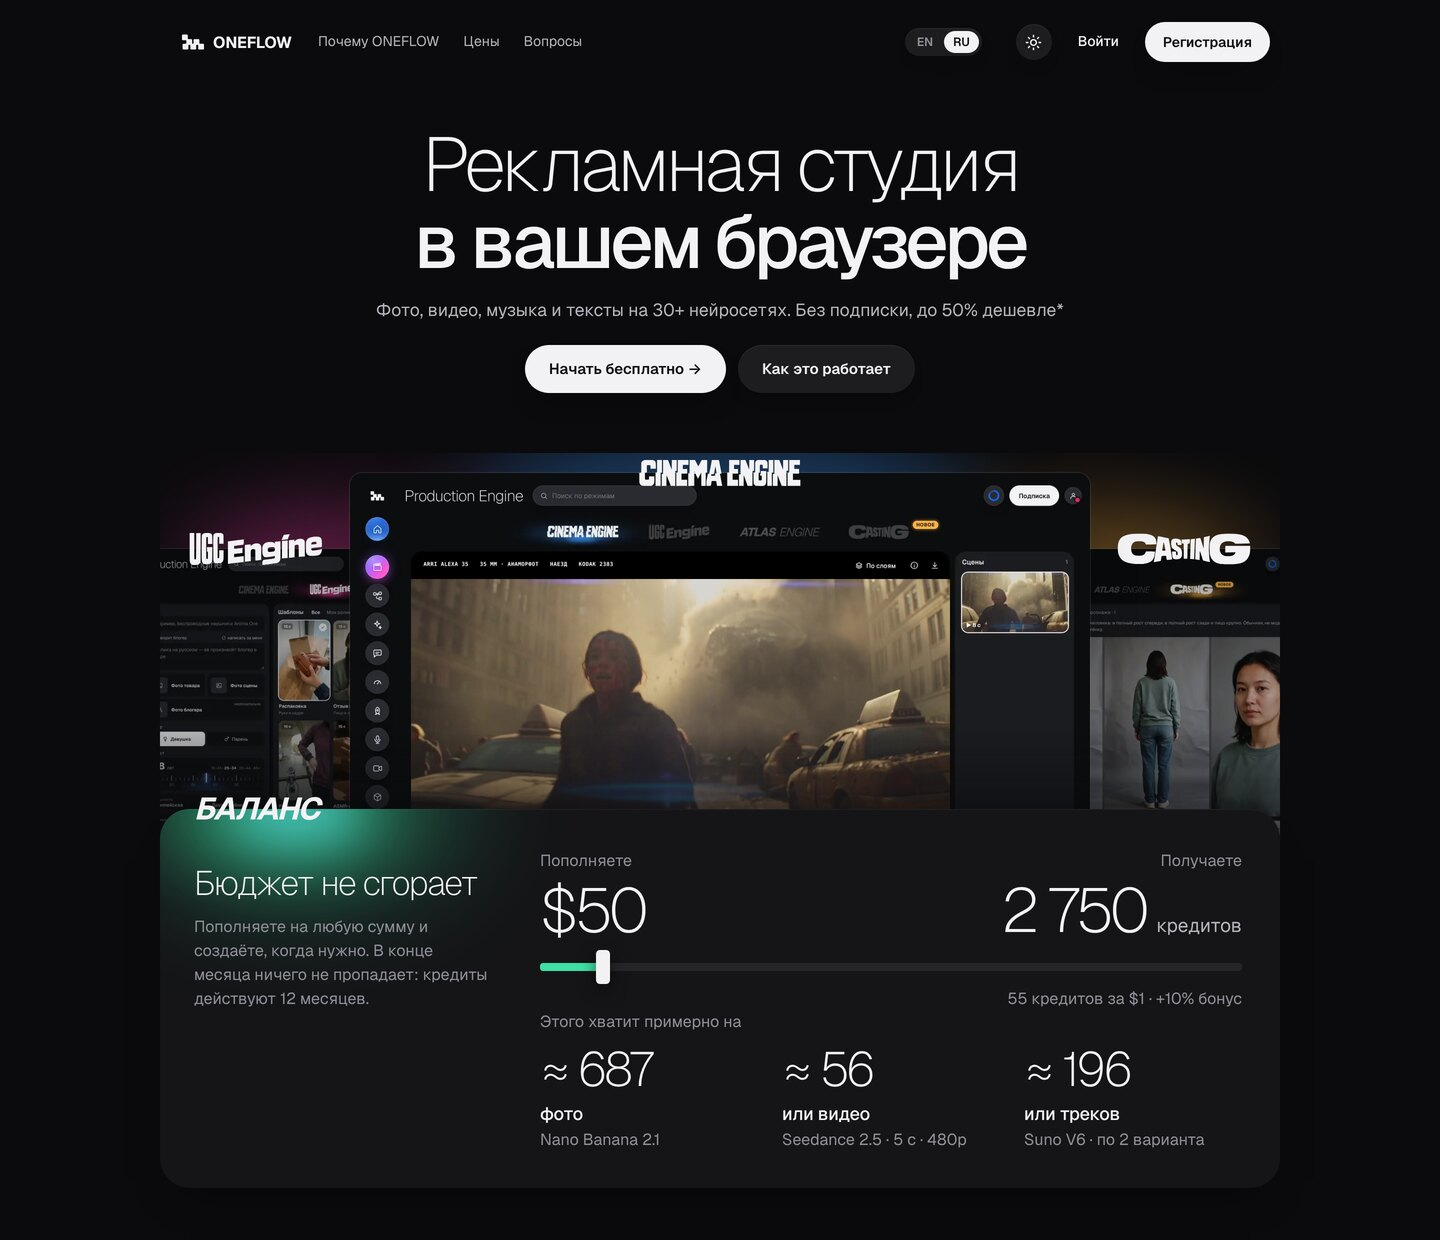
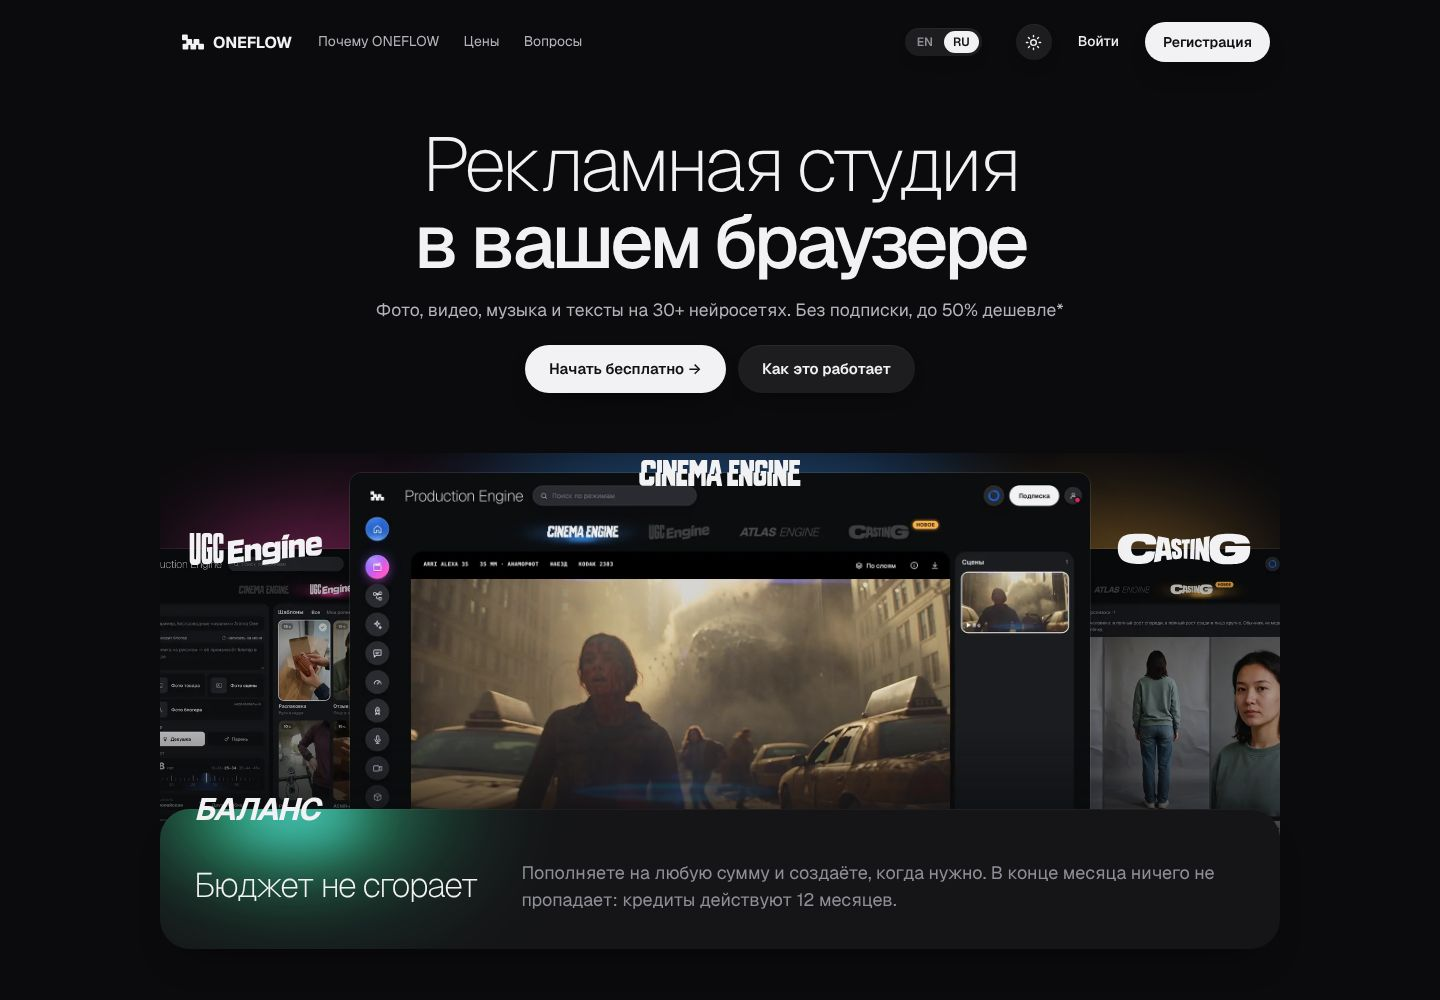
Hero draft: the top-up slider with prices is removed from the «Баланс» card
The card keeps the words «Бюджет не сгорает» and the 12-month note only.

Claude-Session: https://claude.ai/code/session_018a2KjtpEKLUTJU5P3jAt1D

diff --git a/landing/hero_draft/hero_ru.html b/landing/hero_draft/hero_ru.html
@@ -1,18 +1,1 @@
-<section class="hero hq hq35"><div class="wrap"><h1 aria-label="Рекламная студия в вашем браузере">Рекламная студия<br><b>в вашем браузере</b></h1><p class="sub">Фото, видео, музыка и тексты на 30+ нейросетях. Без подписки, до 50% дешевле*</p><div class="acts"><a class="btn p" data-app="register" href="/app?auth=register">Начать бесплатно →</a><a class="btn g" href="#engines">Как это работает</a></div><div class="hq-desk" aria-hidden="true"><div class="hq-w w-l"><span class="hq-blob" style="--h:326"></span><span class="hq-logo" style="--lg:url(/pe/ugc-engine.svg);--ar:1198/303;--lh:34px"></span><div class="hq-win"><img src="/pe/ru/ugc.webp" alt=""></div></div><div class="hq-w w-r"><span class="hq-blob" style="--h:36"></span><span class="hq-logo" style="--lg:url(/pe/casting-engine.svg);--ar:640/160;--lh:34px"></span><div class="hq-win"><img src="/pe/ru/casting.webp" alt=""></div></div><div class="hq-w w-c"><span class="hq-blob" style="--h:212"></span><span class="hq-logo" style="--lg:url(/pe/cinema-engine.svg);--ar:1359/233;--lh:28px"></span><div class="hq-win"><img src="/pe/ru/cine.webp" alt=""><video autoplay muted loop playsinline preload="auto" poster="/pe/scene.jpg" tabindex="-1"><source src="/pe/scene.mp4" type="video/mp4"><source src="/pe/scene.webm" type="video/webm"></video></div></div></div><div class="hq-card hq-bal"><span class="hq-cut"><span class="hq-glow " style="--h:158"><i></i><i></i><i></i></span></span><span class="hq-word" aria-hidden="true">Баланс</span><div class="hq-copy"><h3>Бюджет не сгорает</h3><p>Пополняете на любую сумму и создаёте, когда нужно. В конце месяца ничего не пропадает: кредиты действуют 12 месяцев.</p></div><div class="hq-calc"><div class="hq-top"><div><label class="hq-lab" for="hqTop">Пополняете</label><div class="hq-val" data-o="usd">$50</div></div><div><span class="hq-lab">Получаете</span><div class="hq-val"><span data-o="credits">2 750</span><small>кредитов</small></div></div></div><input id="hqTop" type="range" min="10" max="500" step="10" value="50" aria-label="Сумма пополнения в долларах"><div class="hq-rate" data-o="rate">55 кредитов за $1 · +10% бонус</div><div class="hq-enough">Этого хватит примерно на</div><div class="hq-for"><div><b data-o="photo">≈ 687</b><span>фото</span><em>Nano Banana 2.1</em></div><div><b data-o="video">≈ 56</b><span>или видео</span><em>Seedance 2.5 · 5 с · 480p</em></div><div><b data-o="music">≈ 196</b><span>или треков</span><em>Suno V6 · по 2 варианта</em></div></div></div></div><script>
-/* what a top-up gives: credits per $1 as in the pricing section; a photo is Nano Banana 2.1, a video is Seedance 2.5
-   (5 s, 480p), a track is Suno V6 — the credits of each are counted in the hero module of the landing */
-(function () {
-  var root = document.querySelector('.hq35 .hq-bal'); if (!root) return;
-  var COST = { photo: 4, video: 49, music: 14 }, GAP = ' ', PER = ' кредитов за $1', BONUS = '% бонус', r = root.querySelector('input[type=range]');
-  function sp(n) { return String(n).replace(/\B(?=(\d{3})+(?!\d))/g, GAP); }
-  function draw() {
-    var usd = Number(r.value), rate = usd < 50 ? 50 : usd < 200 ? 55 : 60, credits = usd * rate;
-    root.querySelector('[data-o=usd]').textContent = '$' + usd;
-    root.querySelector('[data-o=credits]').textContent = sp(credits);
-    root.querySelector('[data-o=rate]').textContent = rate + PER + (rate === 50 ? '' : ' · +' + (rate === 55 ? 10 : 20) + BONUS);
-    for (var k in COST) root.querySelector('[data-o=' + k + ']').textContent = '≈ ' + sp(Math.floor(credits / COST[k]));
-    r.style.setProperty('--hqpos', ((usd - 10) / 490 * 100) + '%');
-  }
-  r.addEventListener('input', draw); draw();
-})();
-</script></div></section>
+<section class="hero hq hq35"><div class="wrap"><h1 aria-label="Рекламная студия в вашем браузере">Рекламная студия<br><b>в вашем браузере</b></h1><p class="sub">Фото, видео, музыка и тексты на 30+ нейросетях. Без подписки, до 50% дешевле*</p><div class="acts"><a class="btn p" data-app="register" href="/app?auth=register">Начать бесплатно →</a><a class="btn g" href="#engines">Как это работает</a></div><div class="hq-desk" aria-hidden="true"><div class="hq-w w-l"><span class="hq-blob" style="--h:326"></span><span class="hq-logo" style="--lg:url(/pe/ugc-engine.svg);--ar:1198/303;--lh:34px"></span><div class="hq-win"><img src="/pe/ru/ugc.webp" alt=""></div></div><div class="hq-w w-r"><span class="hq-blob" style="--h:36"></span><span class="hq-logo" style="--lg:url(/pe/casting-engine.svg);--ar:640/160;--lh:34px"></span><div class="hq-win"><img src="/pe/ru/casting.webp" alt=""></div></div><div class="hq-w w-c"><span class="hq-blob" style="--h:212"></span><span class="hq-logo" style="--lg:url(/pe/cinema-engine.svg);--ar:1359/233;--lh:28px"></span><div class="hq-win"><img src="/pe/ru/cine.webp" alt=""><video autoplay muted loop playsinline preload="auto" poster="/pe/scene.jpg" tabindex="-1"><source src="/pe/scene.mp4" type="video/mp4"><source src="/pe/scene.webm" type="video/webm"></video></div></div></div><div class="hq-card hq-bal hq-slim"><span class="hq-cut"><span class="hq-glow " style="--h:158"><i></i><i></i><i></i></span></span><span class="hq-word" aria-hidden="true">Баланс</span><div class="hq-copy"><h3>Бюджет не сгорает</h3><p>Пополняете на любую сумму и создаёте, когда нужно. В конце месяца ничего не пропадает: кредиты действуют 12 месяцев.</p></div></div></div></section>

diff --git a/landing/hero_draft/hero_en.html b/landing/hero_draft/hero_en.html
@@ -1,18 +1,1 @@
-<section class="hero hq hq35"><div class="wrap"><h1 aria-label="The ad studio in your browser">The ad studio <b>in your browser</b></h1><p class="sub">Photos, videos, music and copy from 30+ AI models. No subscription, up to 50% cheaper*</p><div class="acts"><a class="btn p" data-app="register" href="/app?auth=register">Start free →</a><a class="btn g" href="#engines">How it works</a></div><div class="hq-desk" aria-hidden="true"><div class="hq-w w-l"><span class="hq-blob" style="--h:326"></span><span class="hq-logo" style="--lg:url(/pe/ugc-engine.svg);--ar:1198/303;--lh:34px"></span><div class="hq-win"><img src="/pe/en/ugc.webp" alt=""></div></div><div class="hq-w w-r"><span class="hq-blob" style="--h:36"></span><span class="hq-logo" style="--lg:url(/pe/casting-engine.svg);--ar:640/160;--lh:34px"></span><div class="hq-win"><img src="/pe/en/casting.webp" alt=""></div></div><div class="hq-w w-c"><span class="hq-blob" style="--h:212"></span><span class="hq-logo" style="--lg:url(/pe/cinema-engine.svg);--ar:1359/233;--lh:28px"></span><div class="hq-win"><img src="/pe/en/cine.webp" alt=""><video autoplay muted loop playsinline preload="auto" poster="/pe/scene.jpg" tabindex="-1"><source src="/pe/scene.mp4" type="video/mp4"><source src="/pe/scene.webm" type="video/webm"></video></div></div></div><div class="hq-card hq-bal"><span class="hq-cut"><span class="hq-glow " style="--h:158"><i></i><i></i><i></i></span></span><span class="hq-word" aria-hidden="true">Balance</span><div class="hq-copy"><h3>Your budget doesn’t burn</h3><p>Top up any amount and create when you need to. Nothing is lost at the end of the month: credits stay valid for 12 months.</p></div><div class="hq-calc"><div class="hq-top"><div><label class="hq-lab" for="hqTop">You top up</label><div class="hq-val" data-o="usd">$50</div></div><div><span class="hq-lab">You get</span><div class="hq-val"><span data-o="credits">2,750</span><small>credits</small></div></div></div><input id="hqTop" type="range" min="10" max="500" step="10" value="50" aria-label="Top-up amount in dollars"><div class="hq-rate" data-o="rate">55 credits per $1 · +10% bonus</div><div class="hq-enough">Enough for about</div><div class="hq-for"><div><b data-o="photo">≈ 687</b><span>images</span><em>Nano Banana 2.1</em></div><div><b data-o="video">≈ 56</b><span>or videos</span><em>Seedance 2.5 · 5 s · 480p</em></div><div><b data-o="music">≈ 196</b><span>or tracks</span><em>Suno V6 · 2 takes each</em></div></div></div></div><script>
-/* what a top-up gives: credits per $1 as in the pricing section; a photo is Nano Banana 2.1, a video is Seedance 2.5
-   (5 s, 480p), a track is Suno V6 — the credits of each are counted in the hero module of the landing */
-(function () {
-  var root = document.querySelector('.hq35 .hq-bal'); if (!root) return;
-  var COST = { photo: 4, video: 49, music: 14 }, GAP = ',', PER = ' credits per $1', BONUS = '% bonus', r = root.querySelector('input[type=range]');
-  function sp(n) { return String(n).replace(/\B(?=(\d{3})+(?!\d))/g, GAP); }
-  function draw() {
-    var usd = Number(r.value), rate = usd < 50 ? 50 : usd < 200 ? 55 : 60, credits = usd * rate;
-    root.querySelector('[data-o=usd]').textContent = '$' + usd;
-    root.querySelector('[data-o=credits]').textContent = sp(credits);
-    root.querySelector('[data-o=rate]').textContent = rate + PER + (rate === 50 ? '' : ' · +' + (rate === 55 ? 10 : 20) + BONUS);
-    for (var k in COST) root.querySelector('[data-o=' + k + ']').textContent = '≈ ' + sp(Math.floor(credits / COST[k]));
-    r.style.setProperty('--hqpos', ((usd - 10) / 490 * 100) + '%');
-  }
-  r.addEventListener('input', draw); draw();
-})();
-</script></div></section>
+<section class="hero hq hq35"><div class="wrap"><h1 aria-label="The ad studio in your browser">The ad studio <b>in your browser</b></h1><p class="sub">Photos, videos, music and copy from 30+ AI models. No subscription, up to 50% cheaper*</p><div class="acts"><a class="btn p" data-app="register" href="/app?auth=register">Start free →</a><a class="btn g" href="#engines">How it works</a></div><div class="hq-desk" aria-hidden="true"><div class="hq-w w-l"><span class="hq-blob" style="--h:326"></span><span class="hq-logo" style="--lg:url(/pe/ugc-engine.svg);--ar:1198/303;--lh:34px"></span><div class="hq-win"><img src="/pe/en/ugc.webp" alt=""></div></div><div class="hq-w w-r"><span class="hq-blob" style="--h:36"></span><span class="hq-logo" style="--lg:url(/pe/casting-engine.svg);--ar:640/160;--lh:34px"></span><div class="hq-win"><img src="/pe/en/casting.webp" alt=""></div></div><div class="hq-w w-c"><span class="hq-blob" style="--h:212"></span><span class="hq-logo" style="--lg:url(/pe/cinema-engine.svg);--ar:1359/233;--lh:28px"></span><div class="hq-win"><img src="/pe/en/cine.webp" alt=""><video autoplay muted loop playsinline preload="auto" poster="/pe/scene.jpg" tabindex="-1"><source src="/pe/scene.mp4" type="video/mp4"><source src="/pe/scene.webm" type="video/webm"></video></div></div></div><div class="hq-card hq-bal hq-slim"><span class="hq-cut"><span class="hq-glow " style="--h:158"><i></i><i></i><i></i></span></span><span class="hq-word" aria-hidden="true">Balance</span><div class="hq-copy"><h3>Your budget doesn’t burn</h3><p>Top up any amount and create when you need to. Nothing is lost at the end of the month: credits stay valid for 12 months.</p></div></div></div></section>

diff --git a/landing/hero_draft/hero.css b/landing/hero_draft/hero.css
@@ -52,18 +52,8 @@ html[lang] .hero.hq35 h1 { font-size: clamp(40px, 5.3vw, 76px); line-height: 1.0
 .hero.hq35 .hq-copy { position: relative; padding: 56px 20px 38px 34px; }
 .hero.hq35 .hq-copy h3 { margin: 0; font: 200 34px/1.08 var(--d); letter-spacing: -.04em; color: var(--ink); }
 .hero.hq35 .hq-copy p { margin: 14px 0 0; font: 400 16px/1.5 var(--d); color: var(--muted); }
-.hero.hq35 .hq-calc { position: relative; padding: 44px 38px 38px 30px; }
-.hero.hq35 .hq-top { display: flex; justify-content: space-between; align-items: flex-end; gap: 30px; }
-.hero.hq35 .hq-top > div:last-child { text-align: right; }
-.hero.hq35 .hq-lab { display: block; font: 400 16px/1 var(--d); color: var(--muted); }
-.hero.hq35 .hq-val { margin-top: 10px; font: 200 62px/1 var(--d); letter-spacing: -.055em; color: var(--ink); white-space: nowrap; }
-.hero.hq35 .hq-val small { margin-left: 10px; font: 400 19px/1 var(--d); letter-spacing: 0; color: var(--ink2); }
-.hero.hq35 input[type=range] { -webkit-appearance: none; appearance: none; display: block; width: 100%; height: 8px; margin: 22px 0 0; border: 0; border-radius: 3px; background: linear-gradient(90deg, hsl(158 72% 56%) var(--hqpos, 8.16%), var(--field, #26262a) var(--hqpos, 8.16%)); outline-offset: 8px; cursor: pointer; }
-.hero.hq35 input[type=range]::-webkit-slider-thumb { -webkit-appearance: none; width: 14px; height: 34px; border-radius: 4px; background: #f2f2f4; box-shadow: 0 6px 16px rgba(0,0,0,.55); }
-.hero.hq35 input[type=range]::-moz-range-thumb { width: 14px; height: 34px; border: 0; border-radius: 4px; background: #f2f2f4; }
-.hero.hq35 .hq-rate { margin-top: 18px; font: 400 16px/1.2 var(--d); color: var(--muted); text-align: right; }
-.hero.hq35 .hq-enough { margin-top: 4px; font: 400 16px/1.2 var(--d); color: var(--muted); }
-.hero.hq35 .hq-for { margin-top: 14px; display: grid; grid-template-columns: repeat(3, 1fr); gap: 24px; }
-.hero.hq35 .hq-for b { display: block; font: 200 48px/1 var(--d); letter-spacing: -.05em; color: var(--ink); white-space: nowrap; }
-.hero.hq35 .hq-for span { display: block; margin-top: 10px; font: 500 18px/1.2 var(--d); letter-spacing: -.01em; color: var(--ink); }
-.hero.hq35 .hq-for em { display: block; margin-top: 5px; font: 400 16px/1.3 var(--d); font-style: normal; color: var(--muted); white-space: nowrap; }
+/* the card «Баланс» without the top-up slider (removed by the owner, 2026-11-20): one row, the words only */
+.hero.hq35 .hq-bal.hq-slim { display: block; }
+.hero.hq35 .hq-slim .hq-copy { display: grid; grid-template-columns: auto 1fr; align-items: center; gap: 44px; padding: 50px 40px 36px 34px; }
+.hero.hq35 .hq-slim .hq-copy h3 { white-space: nowrap; }
+.hero.hq35 .hq-slim .hq-copy p { margin: 0; font-size: 18px; }

diff --git a/landing/hero_draft/README.md b/landing/hero_draft/README.md
@@ -1,36 +1,24 @@
 # Новая хиро-секция лендинга — выбранный макет (черновик)
 
 Выбрано владельцем 19.11.2026: вариант 35 («Рекламная студия в вашем браузере» — три окна приложения под
-логотипами режимов) плюс блок «Баланс» с ползунком суммы пополнения. Оформление — как у карточек блока
-«Реклама от идеи до готового ролика»: без обводок, без круглых плашек, без мелкого текста (не меньше 16 px).
+логотипами режимов) и карточка «Баланс». 20.11.2026 владелец убрал из карточки ползунок суммы пополнения с
+расчётом цен: в ней остались только слова «Бюджет не сгорает» и пояснение про 12 месяцев. Оформление — как у
+карточек блока «Реклама от идеи до готового ролика»: без обводок, без круглых плашек, без мелкого текста
+(не меньше 16 px).
 
 **Это макет. На сайт не поставлено**: страницы `landing/ru.html` и `landing/index.html` в основном репозитории
 не менялись, пакет сайта не собирался.
 
 | Файл | Что это |
 | --- | --- |
-| `hero_ru.html`, `hero_en.html` | разметка секции (вместе со скриптом ползунка) |
+| `hero_ru.html`, `hero_en.html` | разметка секции (скриптов в ней нет) |
 | `hero.css` | стили секции |
 | `preview-ru.jpg`, `preview-en.jpg` | как это выглядит на ширине 1440 |
 
 Секция заменяет нынешние `<section class="hero">` и ряд баннеров новинок `#news`. Картинки окон и логотипы
 берутся из `/pe/` (они уже лежат на сайте для блока режимов).
 
-## Что считает ползунок
-
-| Что | Модель | Цена провайдера | Кредитов |
-| --- | --- | --- | --- |
-| Кредитов за $1 | — | 50 / 55 / 60 при $10–49 / $50–199 / $200–500 (раздел цен) | — |
-| Фото | Nano Banana 2.1 | $0,04 | 4 |
-| Видео | Seedance 2.5, 5 с, 480p, Atlas Cloud | $0,1397 за секунду (ставка резерва в `generate-video`), считается от 70% | 49 |
-| Музыка | Suno V6, Atlas Cloud | $0,132 за запрос, два варианта трека | 14 |
-
-Проверено на суммах $10, $40, $50, $190, $200, $500 в обеих языковых версиях.
-
 ## Не решено
 
-- Ставка Seedance: в каталоге Atlas на 19.11.2026 у Seedance 2.5 стоит $0,134 без разбивки по разрешению;
-  если это цена 480p, ролик стоит 47 кредитов, а не 49.
-- Раздел цен ниже на странице считает видео по Kling 3.0 и музыку по Lyria 3 Pro — цифры расходятся с ползунком.
-- Формулировка «Бюджет не сгорает»: в разделе цен кредиты действуют 12 месяцев, в блоке это сказано рядом.
+- Формулировка «Бюджет не сгорает»: в разделе цен кредиты действуют 12 месяцев, в карточке это сказано рядом.
 - Телефон, светлая тема и нынешнее фоновое видео в этом макете не сделаны.
